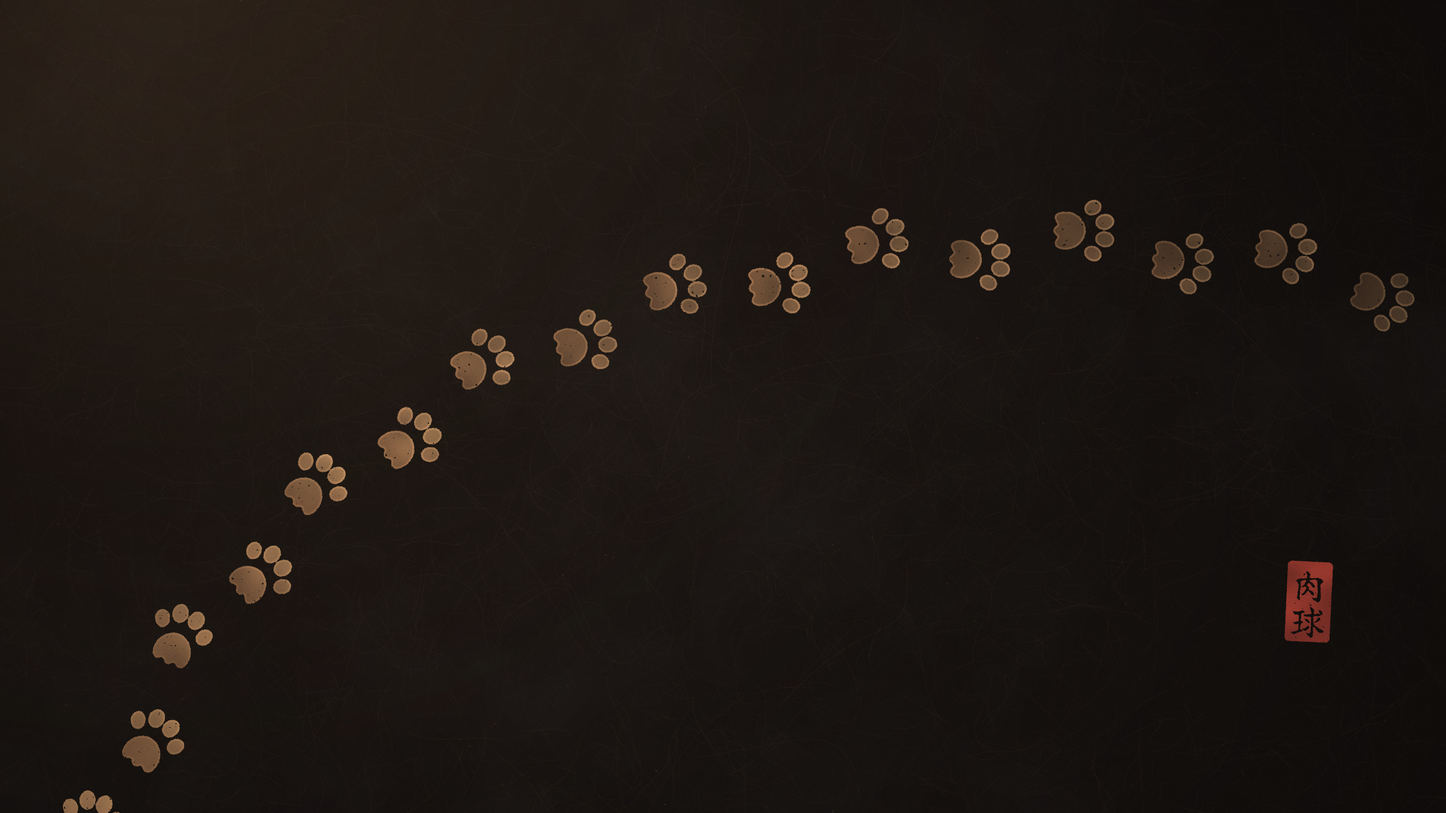
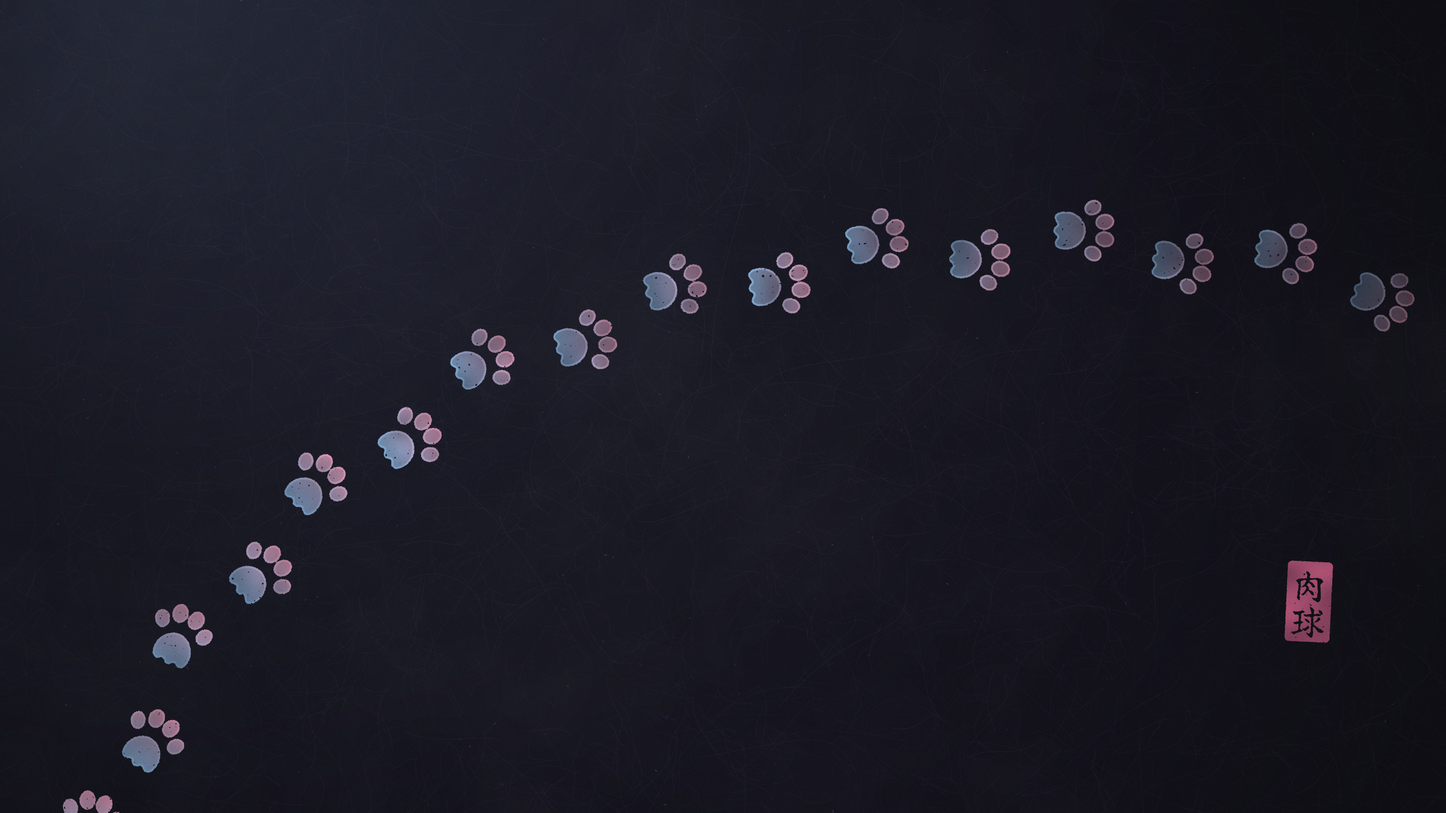
Draw sumi's paper by moonlight, its paw prints pink to sky blue and a rose seal

diff --git a/rices/washi/wallpaper/generate.py b/rices/washi/wallpaper/generate.py
@@ -33,14 +33,14 @@ VARIANTS = {
         "grain": 9,
     },
     "sumi": {
-        "paper": (22, 18, 16),
+        "paper": (21, 20, 29),
         "mottle": 6,
-        "fibre_light": (58, 48, 41), "fibre_dark": (8, 6, 5),
-        "fleck": (90, 70, 52), "fibre_strength": 0.5,
-        "ink": [(214, 160, 110), (168, 118, 80)],  # the beans lit by a lamp
-        "seal": (196, 72, 58),
-        "text": (232, 220, 203),
-        "glow": (200, 145, 95),
+        "fibre_light": (54, 52, 74), "fibre_dark": (7, 7, 12),
+        "fleck": (96, 102, 142), "fibre_strength": 0.5,
+        "ink": [(242, 167, 195), (143, 193, 236)],  # sakura toes, a sky-blue heel, moonlit
+        "seal": (222, 104, 146),
+        "text": (226, 224, 238),
+        "glow": (150, 182, 236),
         "vignette": 0.30,
         "grain": 7,
     },
